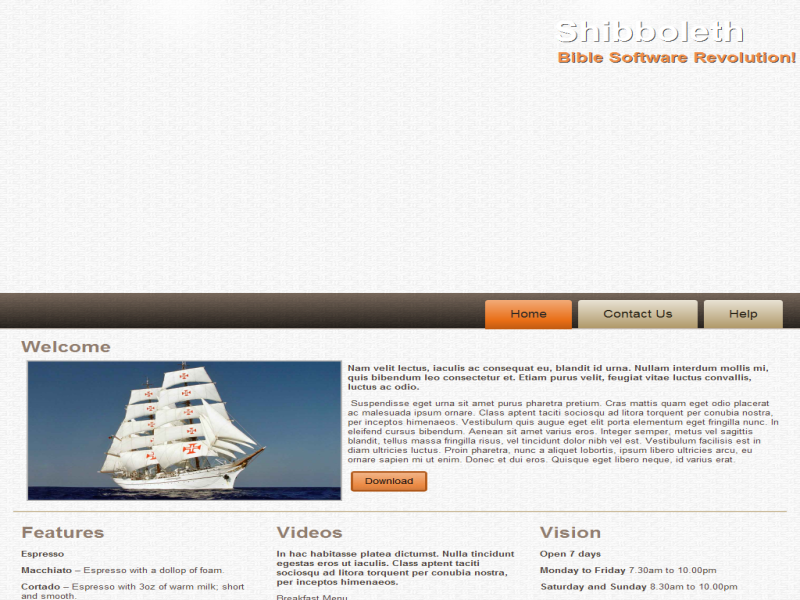
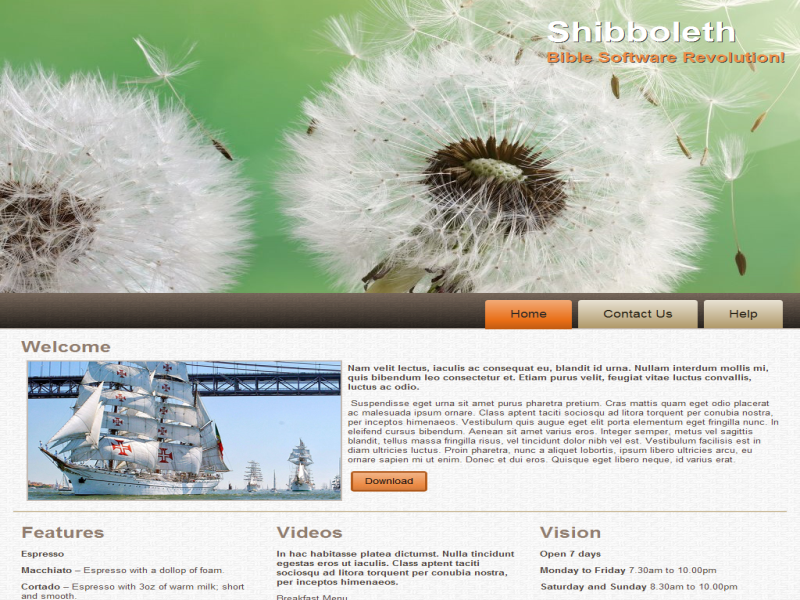
5

diff --git a/home.html b/home.html
@@ -57,7 +57,8 @@
     <div class="art-content-layout-row">
     <div class="art-layout-cell layout-item-1" style="width: 100%" >
         <h3>Welcome</h3>
-         <img style="float: left; margin-top: 7px; margin-right: 7px; margin-bottom: 7px; margin-left: 7px; border-top-style: solid; border-right-style: solid; border-bottom-style: solid; border-left-style: solid; border-top-color: rgb(176, 176, 176); border-right-color: rgb(176, 176, 176); border-bottom-color: rgb(176, 176, 176); border-left-color: rgb(176, 176, 176); border-top-width: 2px; border-right-width: 2px; border-bottom-width: 2px; border-left-width: 2px;" width="400" height="236" alt="" class="art-lightbox" src="images/4f38c886-f8be-4bcd-bb33-6358ab616552.png">
+        <img style="float: left; margin-top: 7px; margin-right: 7px; margin-bottom: 7px; margin-left: 7px; border-top-style: solid; border-right-style: solid; border-bottom-style: solid; border-left-style: solid; border-top-color: rgb(195, 185, 177); border-right-color: rgb(195, 185, 177); border-bottom-color: rgb(195, 185, 177); border-left-color: rgb(195, 185, 177); border-top-width: 2px; border-right-width: 2px; border-bottom-width: 2px; border-left-width: 2px;" width="400" height="236" alt="" class="art-lightbox" src="images/21faf892-06e8-4c89-adc3-50b755a19469.png">
+        
          
         <p><span style="font-weight: bold;">Nam velit lectus, iaculis ac consequat eu, blandit id urna. Nullam interdum mollis mi, quis bibendum leo consectetur et. Etiam purus velit, feugiat vitae luctus convallis, luctus ac odio.</span></p>
         <p>&nbsp;Suspendisse eget urna sit amet purus pharetra pretium. Cras mattis quam eget odio placerat ac malesuada ipsum ornare. Class aptent taciti sociosqu ad litora torquent per conubia nostra, per inceptos himenaeos. Vestibulum quis augue eget elit porta elementum eget fringilla nunc. In eleifend cursus bibendum. Aenean sit amet varius eros. Integer semper, metus vel sagittis blandit, tellus massa fringilla risus, vel tincidunt dolor nibh vel est. Vestibulum facilisis est in diam ultricies luctus. Proin pharetra, nunc a aliquet lobortis, ipsum libero ultricies arcu, eu ornare sapien mi ut enim. Donec et dui eros. Quisque eget libero neque, id varius erat.<br></p>

diff --git a/index.html b/index.html
@@ -57,7 +57,8 @@
     <div class="art-content-layout-row">
     <div class="art-layout-cell layout-item-1" style="width: 100%" >
         <h3>Welcome</h3>
-         <img style="float: left; margin-top: 7px; margin-right: 7px; margin-bottom: 7px; margin-left: 7px; border-top-style: solid; border-right-style: solid; border-bottom-style: solid; border-left-style: solid; border-top-color: rgb(176, 176, 176); border-right-color: rgb(176, 176, 176); border-bottom-color: rgb(176, 176, 176); border-left-color: rgb(176, 176, 176); border-top-width: 2px; border-right-width: 2px; border-bottom-width: 2px; border-left-width: 2px;" width="400" height="236" alt="" class="art-lightbox" src="images/4f38c886-f8be-4bcd-bb33-6358ab616552.png">
+        <img style="float: left; margin-top: 7px; margin-right: 7px; margin-bottom: 7px; margin-left: 7px; border-top-style: solid; border-right-style: solid; border-bottom-style: solid; border-left-style: solid; border-top-color: rgb(195, 185, 177); border-right-color: rgb(195, 185, 177); border-bottom-color: rgb(195, 185, 177); border-left-color: rgb(195, 185, 177); border-top-width: 2px; border-right-width: 2px; border-bottom-width: 2px; border-left-width: 2px;" width="400" height="236" alt="" class="art-lightbox" src="images/21faf892-06e8-4c89-adc3-50b755a19469.png">
+        
          
         <p><span style="font-weight: bold;">Nam velit lectus, iaculis ac consequat eu, blandit id urna. Nullam interdum mollis mi, quis bibendum leo consectetur et. Etiam purus velit, feugiat vitae luctus convallis, luctus ac odio.</span></p>
         <p>&nbsp;Suspendisse eget urna sit amet purus pharetra pretium. Cras mattis quam eget odio placerat ac malesuada ipsum ornare. Class aptent taciti sociosqu ad litora torquent per conubia nostra, per inceptos himenaeos. Vestibulum quis augue eget elit porta elementum eget fringilla nunc. In eleifend cursus bibendum. Aenean sit amet varius eros. Integer semper, metus vel sagittis blandit, tellus massa fringilla risus, vel tincidunt dolor nibh vel est. Vestibulum facilisis est in diam ultricies luctus. Proin pharetra, nunc a aliquet lobortis, ipsum libero ultricies arcu, eu ornare sapien mi ut enim. Donec et dui eros. Quisque eget libero neque, id varius erat.<br></p>
